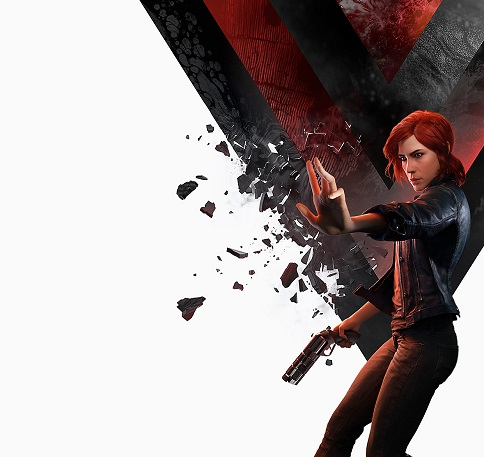
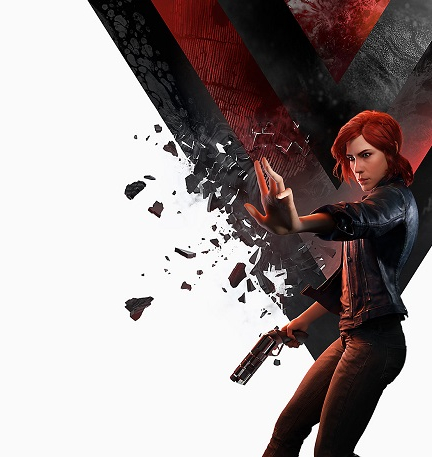
new background and a few fixes

diff --git a/src/constants/profiles.ts b/src/constants/profiles.ts
@@ -93,6 +93,46 @@ export default {
       id: 9,
       name: `Control`,
       buffer: fs.readFileSync(join(assetsFolder, `profile/Backgrounds/control.jpg`))
+    },
+    {
+      id: 10,
+      name: `Ark Survival Evolved - Submitted By Aikage#4444`,
+      buffer: fs.readFileSync(join(assetsFolder, `profile/Backgrounds/ark.jpg`))
+    },
+    {
+      id: 11,
+      name: `PlayerUnknown's Battlegrounds - Submitted By GeheimerWolf#8008`,
+      buffer: fs.readFileSync(join(assetsFolder, `profile/Backgrounds/pubg.png`))
+    },
+    {
+      id: 12,
+      name: `SadAnimeGirly - Submitted By GeheimerWolf#8008`,
+      buffer: fs.readFileSync(join(assetsFolder, `profile/Backgrounds/SadAnimeGirly.png`))
+    },
+    {
+      id: 13,
+      name: `Minecraft - Submitted By Aikage#4444`,
+      buffer: fs.readFileSync(join(assetsFolder, `profile/Backgrounds/minecraft.png`))
+    },
+    {
+      id: 14,
+      name: `CodeVein - Submitted By Aikage#4444`,
+      buffer: fs.readFileSync(join(assetsFolder, `profile/Backgrounds/CodeVein.jpg`))
+    },
+    {
+      id: 15,
+      name: `Final-Fantasy-VII - Submitted By Aikage#4444`,
+      buffer: fs.readFileSync(join(assetsFolder, `profile/Backgrounds/Final-Fantasy-VII.jpg`))
+    },
+    {
+      id: 16,
+      name: `Something - Submitted By Aikage#4444`,
+      buffer: fs.readFileSync(join(assetsFolder, `profile/Backgrounds/something.png`))
+    },
+    {
+      id: 17,
+      name: `Overwatch - Submitted By Aikage#4444`,
+      buffer: fs.readFileSync(join(assetsFolder, `profile/Backgrounds/Overwatch.png`))
     }
   ],
   backgroundPackages: [],

diff --git a/src/commands/fun/dance.ts b/src/commands/fun/dance.ts
@@ -2,7 +2,7 @@ import { Command } from 'yuuko'
 import GamerClient from '../../lib/structures/GamerClient'
 import constants from '../../constants'
 
-export default new Command([`bite`, `chomp`], async (message, _args, context) => {
+export default new Command(`dance`, async (message, _args, context) => {
   const Gamer = context.client as GamerClient
-  return Gamer.helpers.tenor.randomGif(message, `bite`, constants.gifs.bite)
+  return Gamer.helpers.tenor.randomGif(message, `dance`, constants.gifs.dance)
 })

diff --git a/src/constants/gifs.ts b/src/constants/gifs.ts
@@ -567,5 +567,7 @@ export default {
     'https://media.tenor.com/images/f4a52ebfaec15c4e8bace6cb141d72f9/tenor.gif',
     'https://media.tenor.com/images/8409bd65be28e7bcc5a7630c4ebbdcca/tenor.gif',
     'https://media.tenor.com/images/6ab39603ef0dd6dbfc78ba20885b991f/tenor.gif'
+  ],
+  dance: [  
   ]
 }

diff --git a/src/commands/basic/help.ts b/src/commands/basic/help.ts
@@ -20,6 +20,7 @@ const categories = [
       `coinflip`,
       `compliment`,
       `cuddle`,
+      `dance`,
       `divorce`,
       `gif`,
       `hug`,
